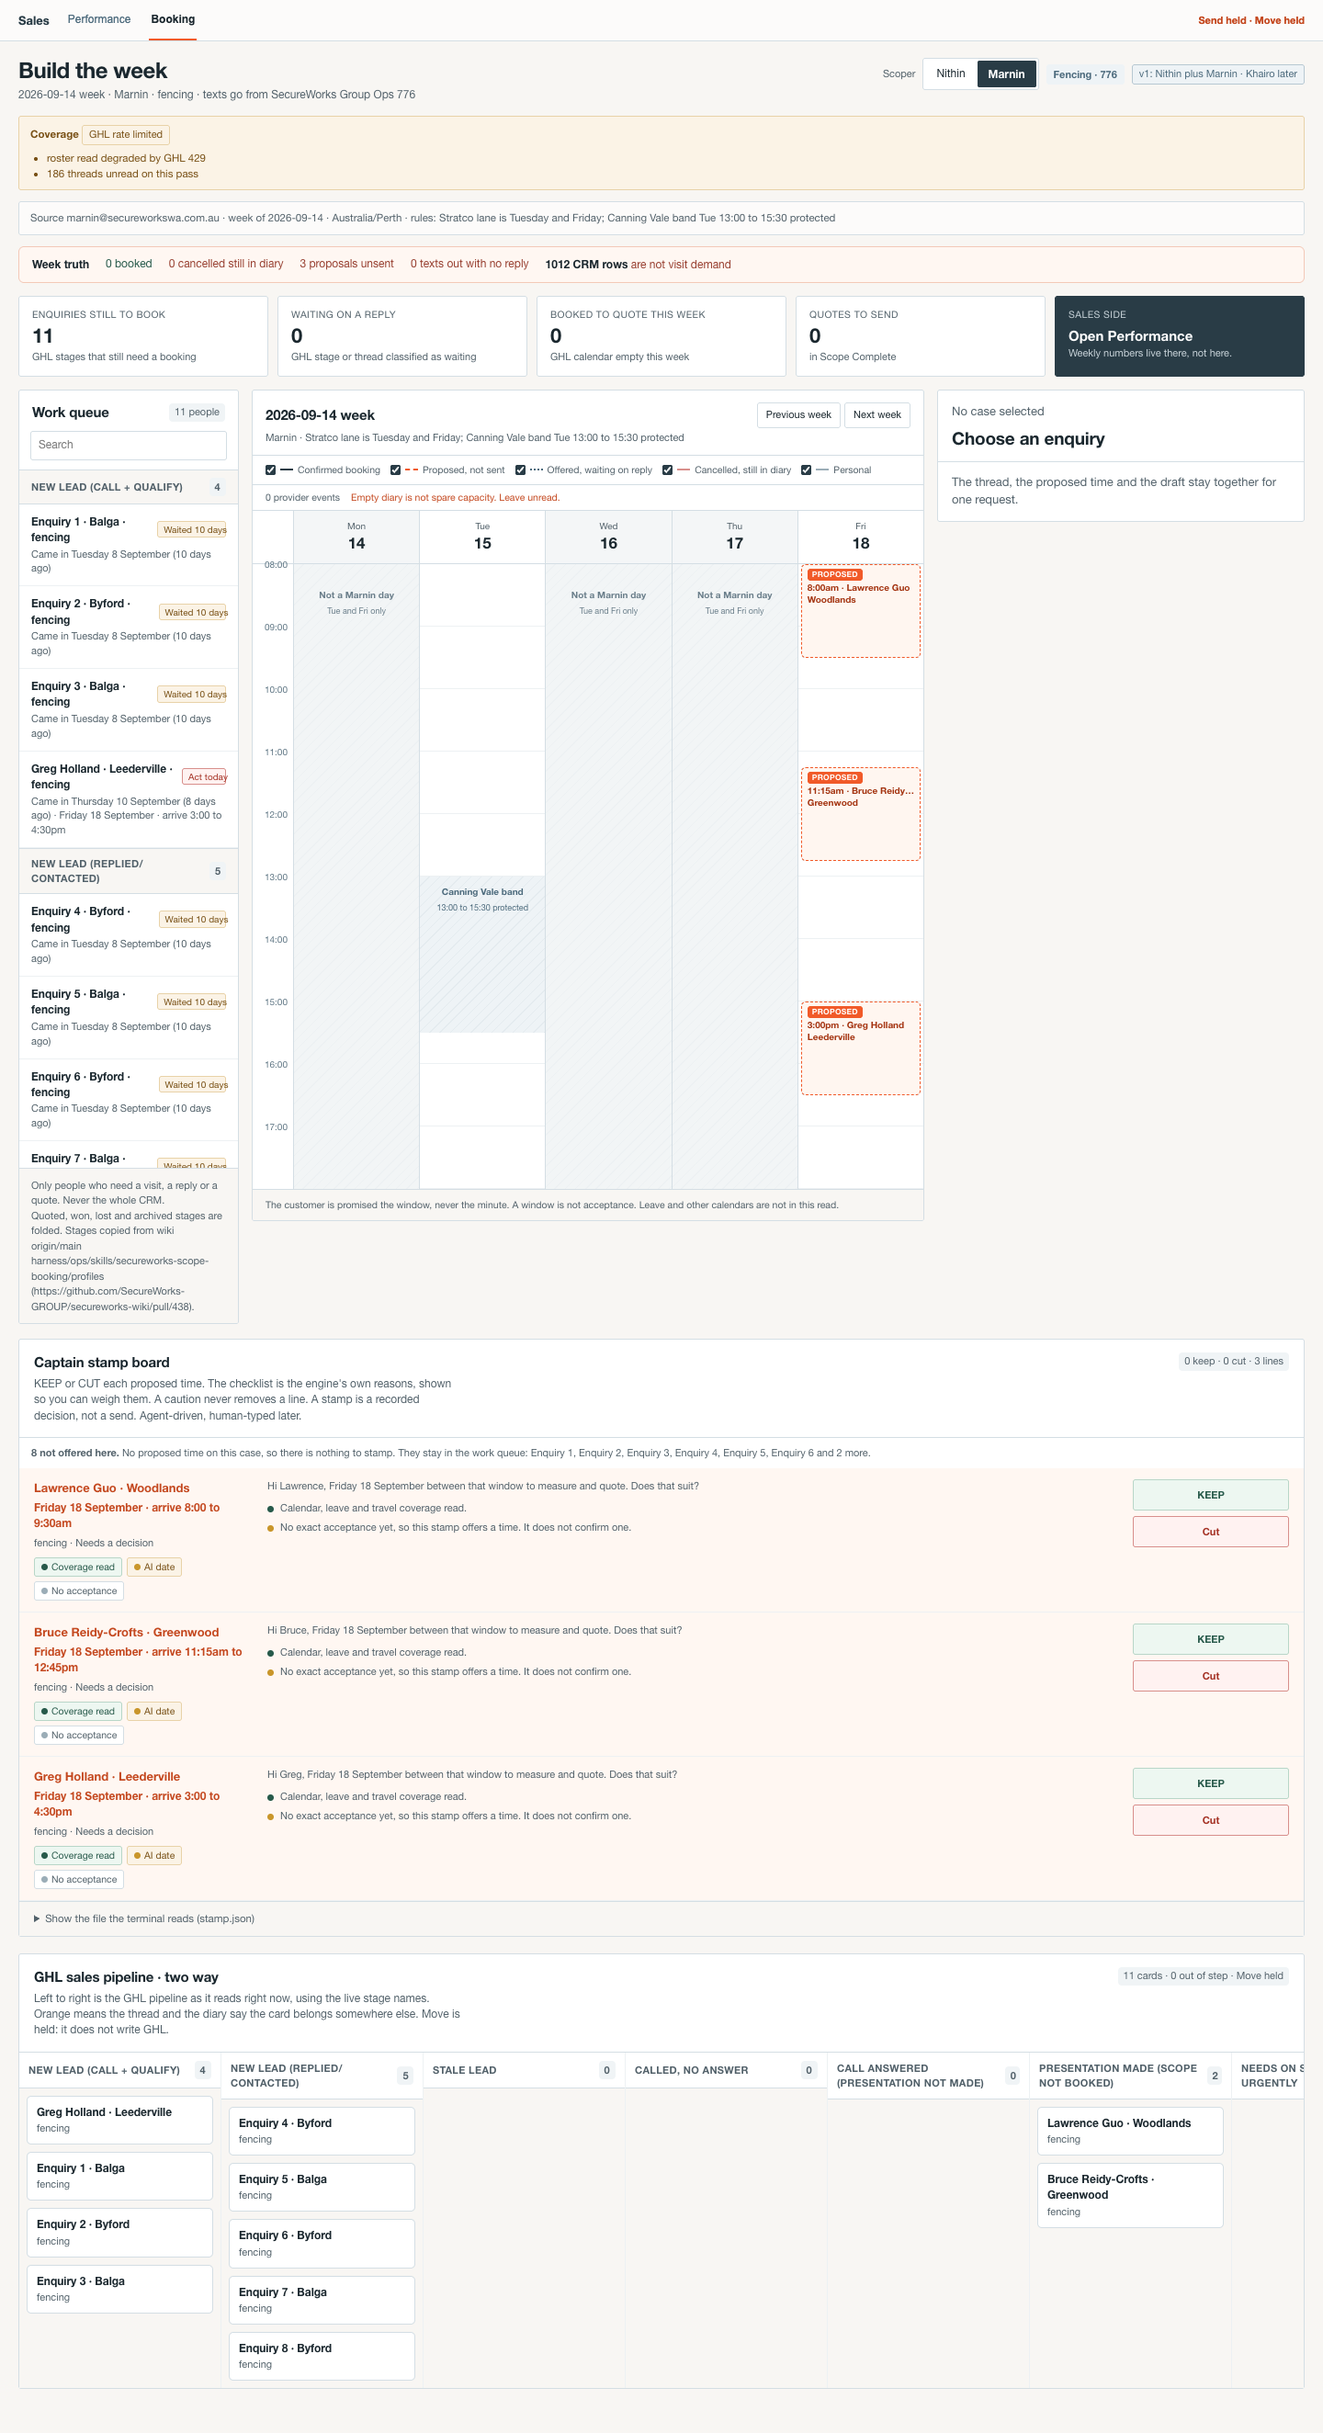
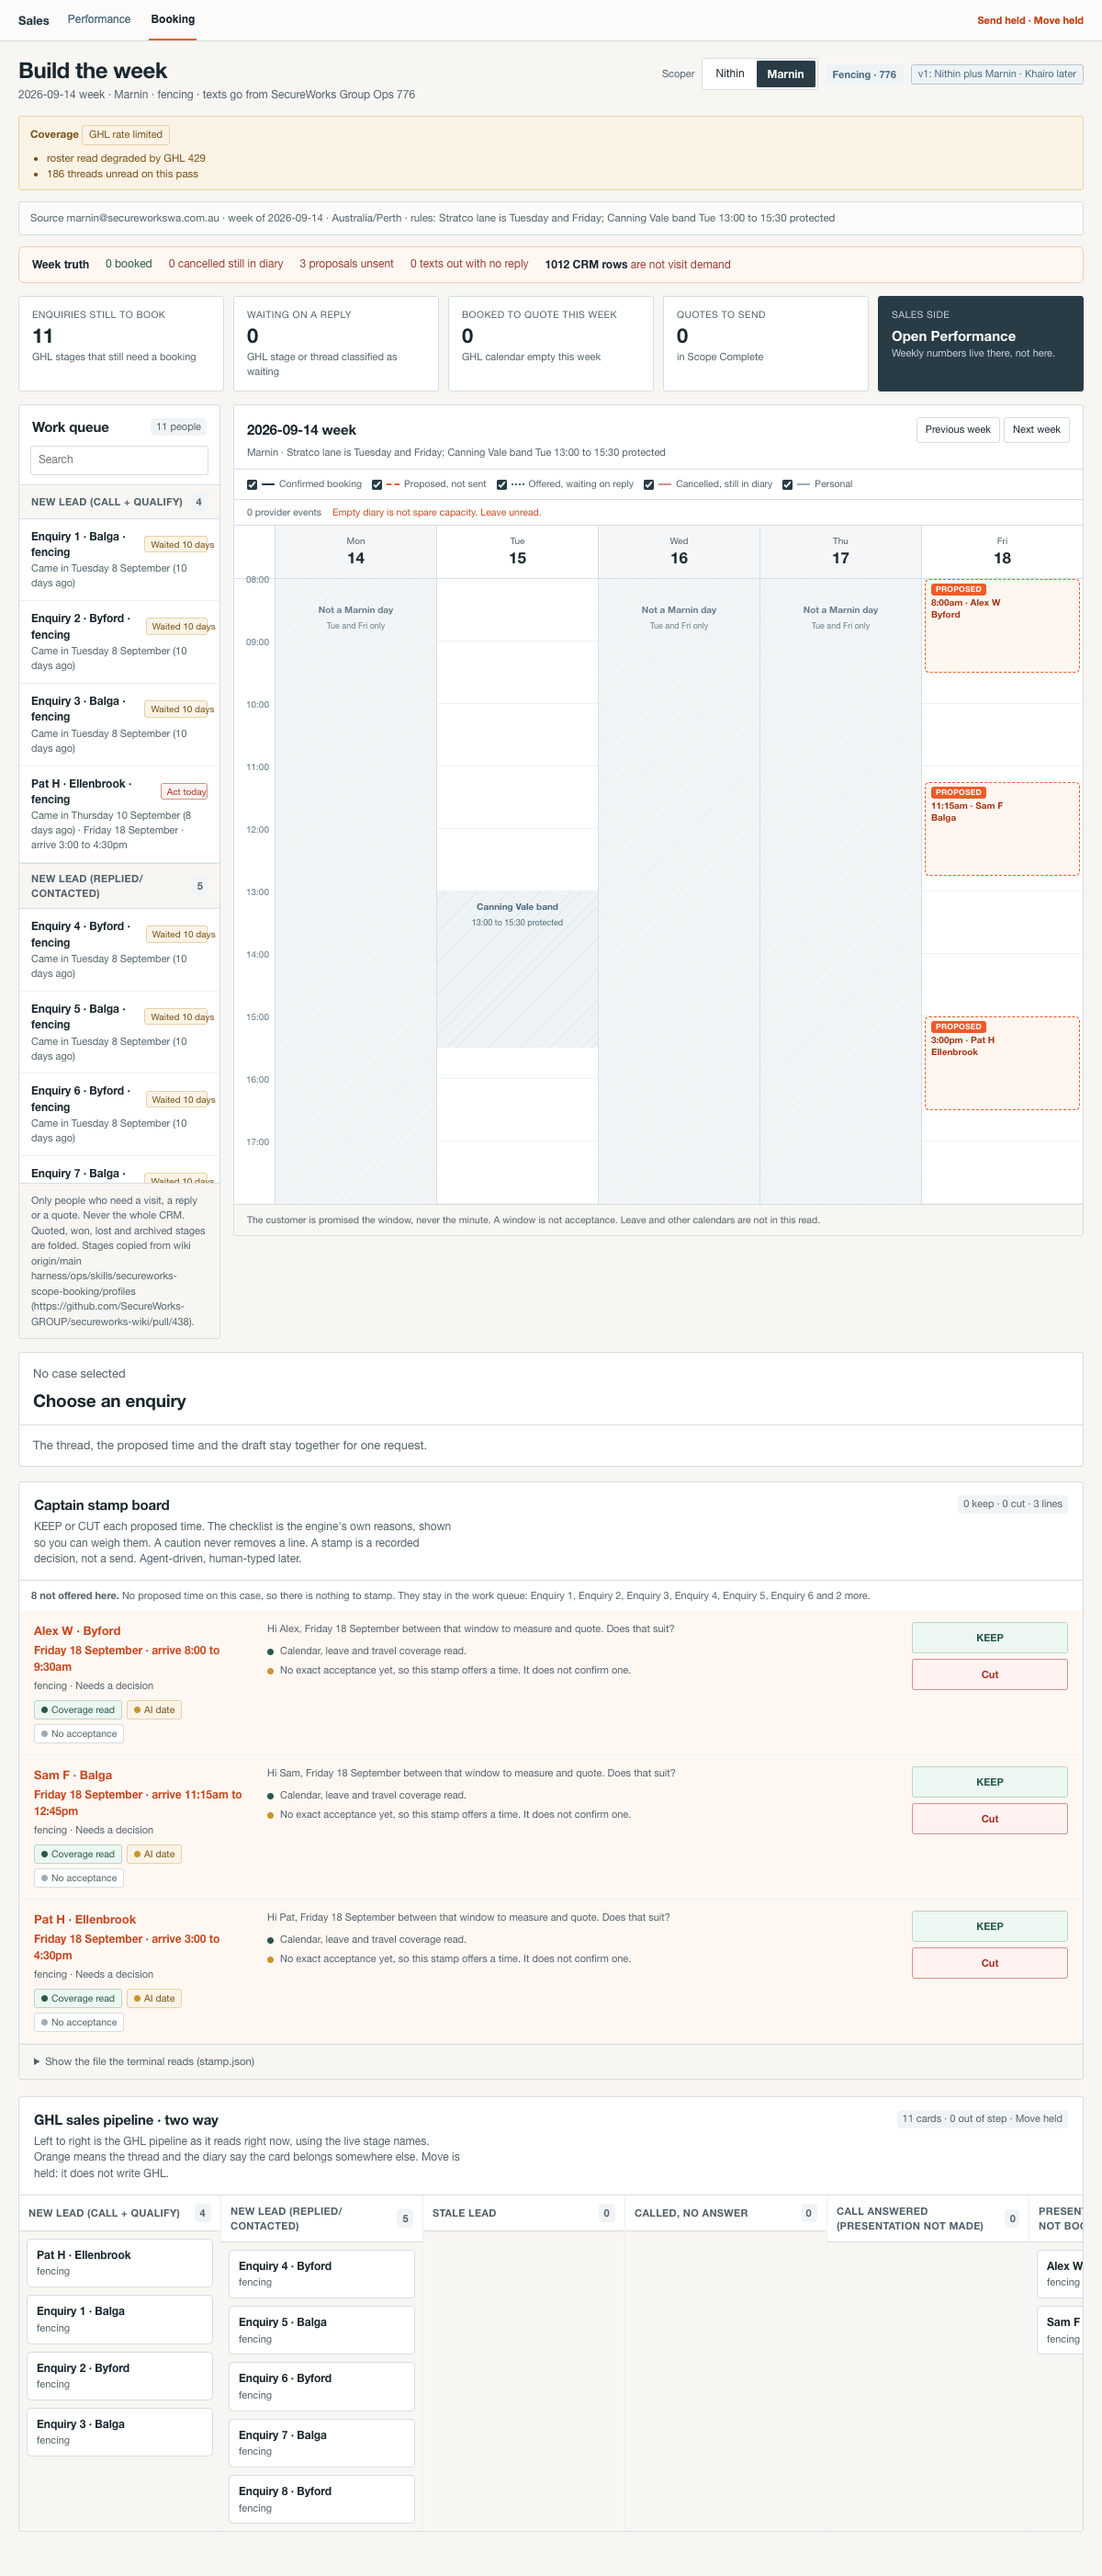
chore(ops): redact live names from booking shots and ignore hook scratch
Replace the fencing screenshot fixtures with synthetic people so the
evidence pack carries no live customer names. Ignore .impeccable/.

diff --git a/docs/evidence/booking-autobook-ui-hardening-2026-09-18/shot.html b/docs/evidence/booking-autobook-ui-hardening-2026-09-18/shot.html
@@ -34,9 +34,9 @@
         var proposals = {};
         var cases = [];
         var names = [
-          ['TelAKHzhxnCjKrExxQxE', 'Lawrence Guo', 'Woodlands', 'Presentation Made (scope not booked)'],
-          ['2ELupAoaJJfij4orMa8h', 'Bruce Reidy-Crofts', 'Greenwood', 'Presentation Made (scope not booked)'],
-          ['wdi52oA5Lnh19ZdXWjmY', 'Greg Holland', 'Leederville', 'New Lead (Call + Qualify)']
+          ['opp-alpha', 'Alex W', 'Byford', 'Presentation Made (scope not booked)'],
+          ['opp-bravo', 'Sam F', 'Balga', 'Presentation Made (scope not booked)'],
+          ['opp-charlie', 'Pat H', 'Ellenbrook', 'New Lead (Call + Qualify)']
         ];
         names.forEach(function (row, i) {
           proposals[row[0]] = {

diff --git a/docs/evidence/booking-autobook-ui-hardening-2026-09-18/README.md b/docs/evidence/booking-autobook-ui-hardening-2026-09-18/README.md
@@ -24,6 +24,10 @@ Measured in this worktree on 18 Sep.
 The 28 s first load is a backend bound (25 s server cap + render). This change does not
 claim to cut that. It cuts the *repeat* wait and stops a 429/500 from wiping the week.
 
+## Captain boundaries on this change
+
+Send is still held. Nothing in the new confirm sheet or the editable SMS can actually send. No calendar write path was added. Move stage is still disabled.
+
 ## Round trip
 
 `scripts/sales-booking-local-api.test.mjs`: `sales_booking_stamp_write` then
